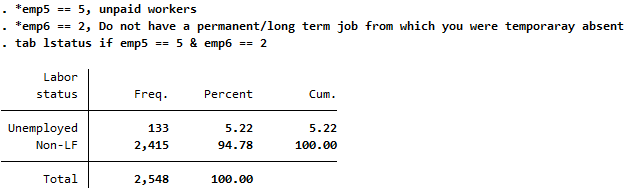
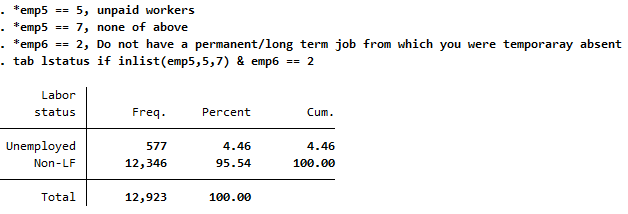
GMB .do file and country survey details updated
Corrections based on Mario's feedback.

diff --git a/Support/B - Country Survey Details/GMB/LFS/employment_definitions.md b/Support/B - Country Survey Details/GMB/LFS/employment_definitions.md
@@ -1,76 +1,120 @@
 # Introduction
 
-Due to the changes in employment definitions in GLFS 2022-23 aimed at incorporating the latest international statistical standards on labor, the ```lstatus```  variable is not comparable. 
+Due to the changes in employment definitions in **GLFS 2022-23** aimed at incorporating the latest international statistical standards on labor, the ```lstatus```  variable is not comparable with **GLFS 2018**. 
 
 It is not possible to match both definitions due to the lack of information in the questionnaires.
 
-The following subsections will outline the main differences between the two surveys.
-
-# Framework for identifying the employed in the GLFS
+# Framework for identifying employment in the GLFS
 
 Both questionnaires used information on current activity to define employment through the ***Employment last 7 days*** block. Questions EMP1 to EMP17 (EMP18 for GLFS 2022-23).
 
-# Employed
+# Employment definitions
 
-Respondents considered as employed in GLFS 2018 under ```lstatus``` are not the same as those in GLFS 2022-23.
+Respondents considered as employed in **GLFS 2018** under ```lstatus```variable are not identical to those in GLFS **2022-23**. This discrepancy arises because the ```lstatus``` and ```empstat``` definitions are not consistent between the two surveys
 
-GLFS 2018 only considers Paid Employees, self-employed individuals, and employers as being in the employed status. Remember that ```empstat != . if lstatus == 1```.
+The definition of ```lstatus``` for **GLFS 2018** is:
+``` 
+According to the international definition, the employed population includes all persons above a specified age who did some work in the reference period either for pay in cash or in kind (paid employees) or who were in self-emp loyment for profit, plus persons temporarily absent from their work. Self- employment includes persons working on their own farms selling most or all their produce or doing any other income generating activities. This report uses the international definition of employment.
 
-<img src= utilities/empstat.png alt=Empstatus width=750 height=650>
+``` 
 
-This arises from the fact that the questionnaire's structure did not account for this type of population. As shown in the images below, individuals who respond to ```EMP5 >= 5``` and do not have any other type of employment are assigned questions related to job search and availability.
+The definition of ```lstatus``` for **GLFS 2022-23** is:
 
-<img src= utilities/employment_questions_2018a.png alt=employment_questions_2018a>
-<img src= utilities/employment_questions_2018b.png alt=employment_questions_2018b>
+``` 
+The employed are all those persons of working age who, during the previous week, were engaged in any activity to produce goods or provide services in exchange for pay or to generate profit (in cash or in kind). 
+They comprise: 
+  - employed persons 'at work', i.e. who worked in a job for at least one hour; 
+  - employed persons 'not at work' due to temporary absence from a job, or to working-time arrangements (such as shift work, flexitime and compensatory leave for overtime). 
 
-(Note: There is another question for unpaid farmers which asks about the destination of the produced goods but is not related to this subsection.)
+``` 
 
-Consequently, populations such as unpaid workers (e.g., Homemakers working on non-farm family businesses) who do not have any other type of employment, are classified within the spectrum of unemployment or considered outside the labor force.
+The definition of ```empstat``` for **GLFS 2018** is:   
 
-<img src= utilities/unpaid_workers.png alt=Unpaid_workers>
+``` 
+Status in employment is distinguished by the following categories: Employees, Employers, Own-account  workers,  Contributing  family  workers  and  Members  of  producers' cooperatives. However, this report used the following categories: 
+  - Paid employees are persons who perform work for a wage or salary in cash or kind. It includes permanent, 
+    temporary and casual paid employees.
+  - The self-employed (non-agriculture) are persons who perform work for profit or family gain in their own  
+    non-agricultural  enterprise. This  includes small and  large  business persons working on their own enterprises. The category is sub-divided into those with employees and those without employees.
+  - The employers are workers who, working as own-account or with a few partners, hold a 'self-employment job', 
+    and, in this capacity, on a continuous basis have engaged one or more persons to work for them in their business as employee(s).
 
-GLFS 2022-23, on the other hand, incorporates new questions that involve non-paid employees in the categorization of employment.
+```
+The definition of ```empstat``` for **GLFS 2022-23** is: 
 
-The questionnaire applies the **CM** block to employed individuals, beginning with question **CM1**.
+```
+Status in employment refers to the type of work relationship a person has in his/her job, taking into account the kind of economic risk and degree of authority that the person experiences in their job. The survey data distinguish four statuses in employment: employee, employer, own-account worker and contributing family worker.
 
-<img src= utilities/employment_questions_2022a.png alt=employment_questions_2022a>
-<img src= utilities/employment_questions_2022b.png alt=employment_questions_2022b>
+```
 
-# Unemployed and Non-LF
+while **GLFS 2018** solely considers Paid Employees, self-employed individuals, and employers as being categorized as employed, **GLFS 2022-23** additionally includes Non-paid employees
 
-The methodology used in GLFS 2018 to determine the unemployed population and those outside the labor force differs from that in 2022-23.
+### Questionnaries
 
-GLFS 2018 defines unemployment as all those persons of working age who were not in employment, carried out activities to seek employment during a specified recent period, and were currently available to take up employment given a job opportunity.
-
-The questionnaire considers as unemployed (apply unemployment block) a not working or unpaid family worker in a subsistence business, available for work and looking for work. In other words **EMP13 == yes**. 
-
-
-**EXAMPLE OF HOW TO ADD THE CAPTION**
+The **GLFS 2018** questionnaire determines the labor status based on this questions:
 
 <figure>
-  <figcaption><b>Fig. 1</b><i> This is my caption text.</i></figcaption>
-  <img src= utilities/unemployment_questions_2018a.png alt=unemployment_questions_2018a>
+  <figcaption><b>Fig. 1</b><i> Employment question - GLFS 2018 </i></figcaption>
+  <img src= utilities/emp_questions_2018a.png alt=emp_questions_2018a>
+  <img src= utilities/emp_questions_2018b.png alt=emp_questions_2018b>
+  
+</figure>
+
+The **GLFS 2022-23** questionnaire determines the labor status based this questions:
+
+<figure>
+  <figcaption><b>Fig. 2</b><i> Employment question - GLFS 2022-23 </i></figcaption>
+  <img src= utilities/employment_questions_2022a.png alt=employment_questions_2022a>
+  <img src= utilities/employment_questions_2022b.png alt=employment_questions_2022b>
+  
+</figure>
+
+(Note: The questionnaire applies the **CM** block to employed individuals, beginning with question **CM1**.)
+
+### Survey comparison
+
+
+The questions of **GLFS 2018** are targeted towards the type of work the respondent does, whereas those of **2022-23** focus on more general questions about workplace actions that encompass various types of employment.
+
+**GLFS 2018** structure does not consider as employed the unpaid workers (e.g., Homemakers working on non-farm family businesses) or another job not considered in ```EMP5``` question as employed. As shown in the images above, individuals who respond to ```EMP5 >= 5``` and do not have any other type of employment are assigned questions related to job search and availability.
+
+
+<figure>
+  <figcaption><b>Fig. 3</b><i> Unemployment questions - GLFS 2018 </i></figcaption>
+  <img src= utilities/unemployment_question_2018.png alt=unemployment_question_2018>
+  
+</figure>
+
+(Note: There is another question for unpaid farmers which asks about the destination of the produced goods, The labour status depends of their answer.)
+
+Consequently, thus type of population who do not have any other type of employment, are classified within the spectrum of unemployment or considered outside the labor force.
+
+<figure>
+  <figcaption><b>Fig. 4</b><i> Unpaid workers and none of above labour status - GLFS 2018 </i></figcaption>
+  <img src= utilities/unpaid_workers.png alt=Unpaid_workers>
+  
 </figure>
 
 
-**How it was before** 
+On the other hand, **GLFS 2022-23** with broader questions, involve non-paid employees in the categorization of employment.
 
- <img src= utilities/unemployment_questions_2018a.png alt=unemployment_questions_2018a>
+<figure>
+  <figcaption><b>Fig. 5</b><i> Employment status - 2018 vs 2022-23 </i></figcaption>
+  <img src= utilities/empstat.png alt=Empstatus width=750 height=650>
+  
+</figure>
 
-On the other hand, in GLFS 2022-23, the unemployment rate conforms to the definition by ILO. (see document The Gambia Labour Force Survey (GLFS 2022-23) Analytical Report): 
 
-```
-The unemployment rate in this survey conforms to the definition by ILO, which is defined as persons of working age unemployed who meet the following three conditions:
- -  Not been employed, i.e., not to have worked for pay or profit during the reference period. A person can be unemployed while being
-    engaged in other forms of work such as own-use production work, volunteer work or unpaid trainee work. The distinction between
-    employment and own-use production of goods is based on the main intended destination of the production. Production of goods mainly intended for sale or exchange are included in employment.
- -  To have actively looked for a paid job or to start a business in the past four weeks.
- -  To have been available for a job during the reference period or in the two coming weeks.  
-However, persons who have already found a job and who will start their new job within three months are considered as unemployed.
-```
+### Match employment definitions
 
-Although the two definitions may seem similar, the unemployed population in 2018, if the methodology of 2023 is used, would be much smaller.
+It is not possible to unify the definitions of employed population due to the lack of information in the questionnaires: 
 
-<img src= utilities/lstatus_2018vs2022.png alt=lstatus_2018vs2022>
+**Change Labour of 2018: unpaid workers ```EMP5 == 5``` and none of above population ```EMP5 == 7```  to ```lstatus == employed```**
 
-Even though it's possible to adapt the methodology from 2022-23 to 2018, achieving a perfect match isn't possible due to the mentioned **employed** population issue.
+There are no questions available to ascertain their employment status. For instance, there are no questions about their interaction within the business market or whether they have been hired by someone.
+
+**Change Labour of 2022-23: ```empstat == Non-paid employees```  to ```lstatus == unemployed```**
+
+No job search questions were assigned to them. We do not know whether they are unemployed or Non-LF.
+
+

diff --git a/Support/B - Country Survey Details/GMB/LFS/1. Introduction to Gambia  LFS.md b/Support/B - Country Survey Details/GMB/LFS/1. Introduction to Gambia  LFS.md
@@ -1,7 +1,7 @@
 # Introduction to Gambia (GMB) Labour Force Survey (LFS)
 
--   [What is the CCC survey?](#what-is-the-gmb-lfs)
--   [What does the CCC survey cover?](#what-does-the-gmb-lfs)
+-   [What is the GMB survey?](#what-is-the-gmb-lfs)
+-   [What does the GMB survey cover?](#what-does-the-gmb-lfs)
 -   [Where can the data be found?](#where-can-the-data-be-found)
 -   [What is the sampling procedure?](#what-is-the-sampling-procedure)
 -   [What is the significance level?](#what-is-the-geographic-significance-level)
@@ -18,7 +18,7 @@ The Gambia Labour Force Survey (GLFS) collects labour market information and oth
 
 | Year | \# of Households | \# of Individuals |
 |:-----|:-----------------|:------------------|
-| 2018 | 5,985            | 57,792            |
+| 2018 | 5,987            | 57,799            |
 | 2022 | 6,595            | 63,241            |
 
 ## Where can the data be found? 
@@ -31,7 +31,6 @@ The GLFS uses a two-stage stratified cluster sampling design.
 
 The 2018 manual (see document *The Gambia Labour Force Survey
 (GLFS 2018) Analytical Report* on the 2018 documentation site) outlines the sampling procedure as:
-
 
 
 ``` 
@@ -50,16 +49,31 @@ The official reports detail results at the national, urban and rural areas, and 
 The country is divided into eight LGAs: Banjul, Kanifing, Brikama, Mansakonko, Kerewan, Kuntaur, 
 Janjanbureh and Basse. Settlements in Banjul and Kanifing are entirely urban.
 
-## Other noteworthy aspects 
+## Other noteworthy aspects
 
-### Comparability of the Gambia Labour Force Surveys
+### Unemployment definition survey 2018
 
-The GLD codes the harmonization’s variables based on the ``` lstatus ```  concept used in the survey. The questionnaire for the 2022-23 Gambia Labour Force Survey underwent significant changes in employment definition compared to the 2018 version to incorporate the latest international statistical standards on labor (i.e., 19th and 20th ICLS). Therefore, the survey findings are not comparable with those from the 2018 GLFS. Precise details are covered in a separate [document](employment_definitions.md).
+To determine the unemployed population, GLFS 2018 employs its own methodology. However, we aim to use the following definition of unemployment: someone who (i) is actively seeking and (ii) would accept a job.
+
+In this survey, it is possible to code the unemployed population according to the above definition, through the questions from the questionnaire: If the respondent answers 2 or 3 to **EMP8** and 1 to **EMP9**.
+
+<figure>
+  <figcaption><b>Fig. 1</b><i> Unemployment questions - GLFS 2018 </i></figcaption>
+  <img src= utilities/unemployment_question_2018.png alt=unemployment_question_2018>
+  
+</figure>
+
+(Note: Using this definition, in contrast to the survey methodology, the number of unemployed decreases while the Outside the Labour Force force increases.)
+
+
+### Comparability of The Gambia Labour Force Surveys
+
+The questionnaire for the 2022-23 Gambia Labour Force Survey underwent significant changes in employment definition compared to the 2018 version to incorporate the latest international statistical standards on labor (i.e., 19th and 20th ICLS). Therefore, the survey findings ``` lstatus ``` are not comparable with those from the 2018 GLFS. Precise details are covered in a separate [document](employment_definitions.md).
 
 
 ### Education In Gambia
 
-In The Gambia, education is structured into five stages: lower basic, upper basic, secondary school, and then undergraduate and graduate levels at the university. The table below illustrates the average duration, in years/grades, of each stage. Vocational and Diploma levels were considered as higher than secondary but not university. See [isced 2011 for Gambia](https://uis.unesco.org/sites/default/files/documents/isced_2011_mapping_en_gambia_0.xlsx)
+In The Gambia, education is organized into five stages: lower basic, upper basic, secondary school, followed by undergraduate and graduate levels at the university. The table below illustrates the average duration, in years or grades, of each stage. This information is useful for creating the variable ``` educy ```, that codes the number of years spent in education.
 
 | Education level           | Grade or Year    |
 |:--------------------------|:-----------------|
@@ -72,3 +86,16 @@ In The Gambia, education is structured into five stages: lower basic, upper basi
 | Higher(BSc/ACCA/MSc/PhD)  | 1 to 12 years    |
 
 
+
+
+The following table illustrates the categorization of variable ``` educat7 ``` within the context of The Gambia. This variable classifies the highest level of education attained by the respondent to seven levels. For more information, refer to [isced 2011 for Gambia](https://uis.unesco.org/sites/default/files/documents/isced_2011_mapping_en_gambia_0.xlsx).
+
+| educat7                                       | Education levels in The Gambia (Highest level has ever attained)    |
+|:----------------------------------------------|:--------------------------------------------------------------------|
+| No education                                  | No education or Early Childhood Education/Development               |
+| Primary incomplete                            | Grade 1 to 5                                                        |
+| Primary complete                              | Grade 6                                                             |
+| Secondary incomplete                          | Grade 7 to 11                                                       |
+| Secondary incomplete                          | Grade 12                                                            |
+| Higher than secondary but not university      | Vocational or Diploma                                               |
+| University incomplete or complete             | Higher(BSc/ACCA/MSc/PhD)                                             |
